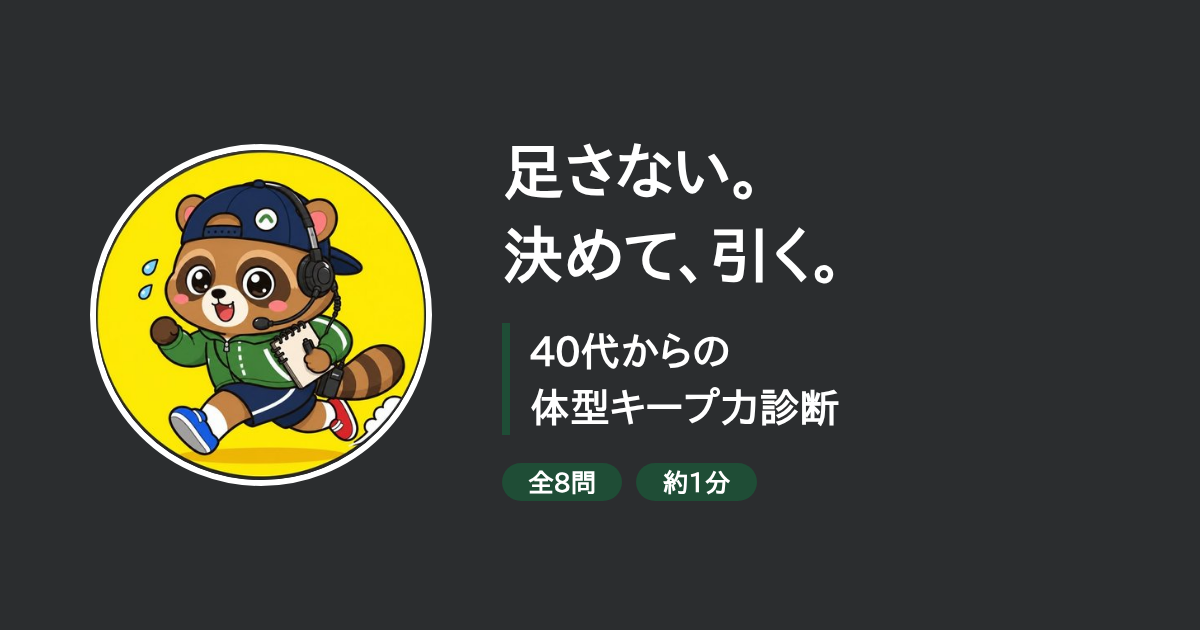
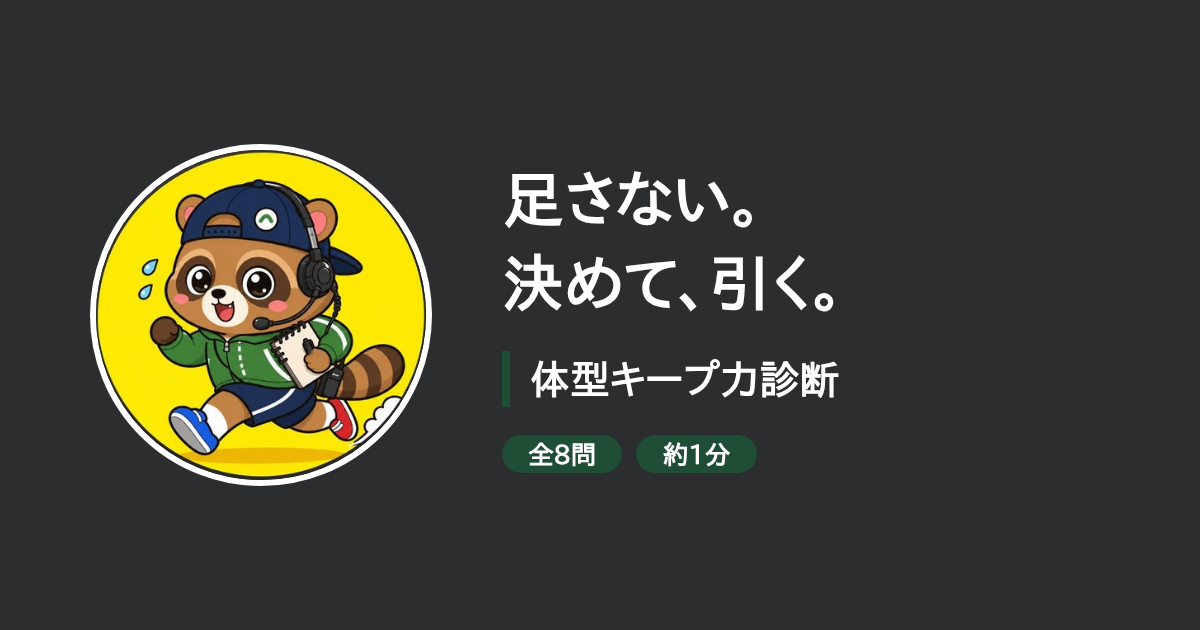
Drop age wording from the diagnosis tool name
Rename to 体型キープ力診断 in TOOL_NAME, <title>, og:title, twitter:title
and the OGP image. Operator profile (43歳) is unchanged.

Claude-Session: https://claude.ai/code/session_015oZ98qRSP9bjAwF7inUAAm

Changed region(s): [[0.4008, 0.2111, 0.7092, 0.8143]]

diff --git a/public/shindan/index.html b/public/shindan/index.html
@@ -10,16 +10,16 @@
        ツール名を変える場合は下の <title> と og:title / twitter:title の
        3か所も同じ文言に書き換えてください。
      ============================================================ */
-  var TOOL_NAME = "40代からの体型キープ力診断";
+  var TOOL_NAME = "体型キープ力診断";
   var LINE_URL = "https://lin.ee/WIGvONa";
   var LINE_BUTTON_TEXT = "ランたんの習慣リストを受け取る";
   var OPERATOR_NAME = "ランたん｜ゆるトレ×腸活で体型維持20年";
   var OPERATOR_PROFILE = "作った人＝高校時代から20年、体型をキープしている43歳";
 </script>
-<title>40代からの体型キープ力診断</title>
+<title>体型キープ力診断</title>
 <meta name="description" content="8問・約1分。疲れた日にどう崩れやすいかを知って、自分に合った「最低ライン」を1つ持ち帰る診断です。">
 <meta property="og:type" content="website">
-<meta property="og:title" content="40代からの体型キープ力診断">
+<meta property="og:title" content="体型キープ力診断">
 <meta property="og:description" content="8問・約1分。疲れた日にどう崩れやすいかを知って、自分に合った「最低ライン」を1つ持ち帰る診断です。">
 <meta property="og:locale" content="ja_JP">
 <!-- 公開URL（GitHub Pages）。独自ドメインなどに変える場合は og:url と og:image / twitter:image の3か所を書き換える -->
@@ -29,7 +29,7 @@
 <meta property="og:image:height" content="630">
 <meta name="twitter:card" content="summary_large_image">
 <meta name="twitter:image" content="https://weapon37.github.io/shindan/ogp.png">
-<meta name="twitter:title" content="40代からの体型キープ力診断">
+<meta name="twitter:title" content="体型キープ力診断">
 <meta name="twitter:description" content="8問・約1分。疲れた日にどう崩れやすいかを知って、自分に合った「最低ライン」を1つ持ち帰る診断です。">
 <meta name="theme-color" content="#2b2d2f">
 <style>
